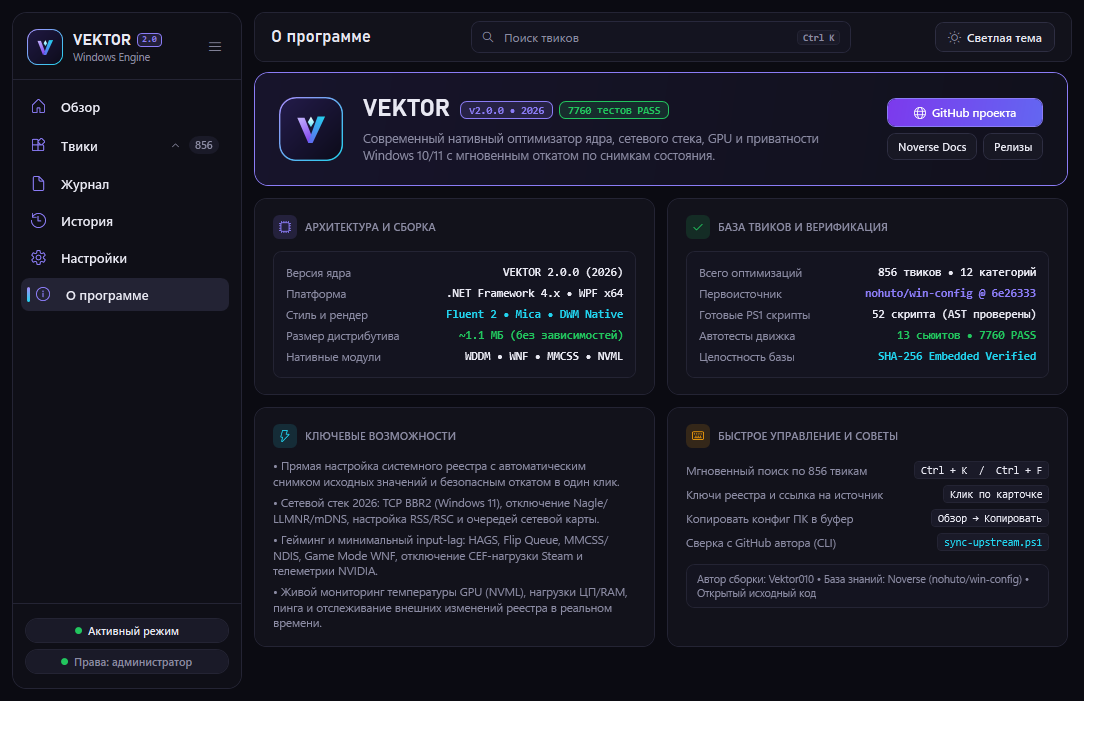
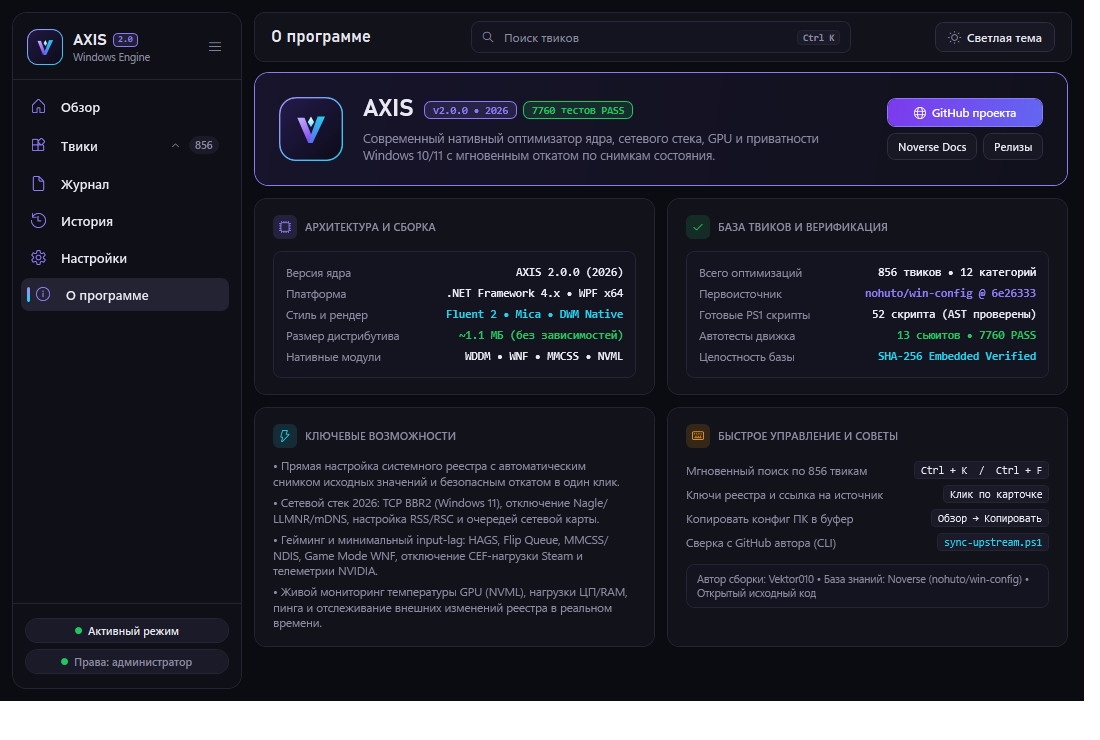
fix(ui): eliminate unnecessary vertical scrollbar via height calibration (800px) and tightened grid spacing for pixel-perfect flush layout

Changed region(s): [[0.3091, 0.1243, 0.6182, 0.1865], [0.4636, 0.3419, 0.5564, 0.373], [0.0618, 0.0311, 0.1545, 0.0622]]

diff --git a/mainwindow.xaml b/mainwindow.xaml
@@ -5,7 +5,7 @@
         xmlns:mc="http://schemas.openxmlformats.org/markup-compatibility/2006"
         mc:Ignorable="d"
         Title="AXIS — Оптимизатор Windows 10/11 (2026)"
-        Height="760"
+        Height="800"
         Width="1180"
         MinWidth="980"
         MinHeight="620"
@@ -570,7 +570,7 @@
                               Visibility="{Binding IsOverviewSelected, Converter={StaticResource BoolToVis}}">
                     <StackPanel Margin="0,0,4,0">
                         <!-- 2.1 Four Bento Metric Cards Row (2026 Typography + Icon Badges) -->
-                        <Grid Margin="0,0,0,12">
+                        <Grid Margin="0,0,0,10">
                             <Grid.ColumnDefinitions>
                                 <ColumnDefinition Width="*" />
                                 <ColumnDefinition Width="*" />
@@ -652,22 +652,22 @@
                         </Grid>
 
                         <!-- 2.2 Two-Column Row: Big 60s Chart (Left) + System Specs (Right) -->
-                        <Grid Margin="0,0,0,12">
+                        <Grid Margin="0,0,0,10">
                             <Grid.ColumnDefinitions>
                                 <ColumnDefinition Width="1.25*" />
                                 <ColumnDefinition Width="*" />
                             </Grid.ColumnDefinitions>
 
                             <!-- Big 60-second Chart -->
-                            <Border Grid.Column="0" Background="{DynamicResource CardBg}" BorderBrush="{DynamicResource CardBorder}" BorderThickness="1" CornerRadius="12" Padding="16,14" Margin="0,0,6,0">
+                            <Border Grid.Column="0" Background="{DynamicResource CardBg}" BorderBrush="{DynamicResource CardBorder}" BorderThickness="1" CornerRadius="12" Padding="16,12" Margin="0,0,6,0">
                                 <StackPanel>
-                                    <Grid Margin="0,0,0,10">
+                                    <Grid Margin="0,0,0,8">
                                         <TextBlock Text="НАГРУЗКА ЗА ПОСЛЕДНИЕ 60 СЕКУНД" FontSize="10.5" FontWeight="SemiBold" Foreground="{DynamicResource TextSecondary}" />
                                         <TextBlock Text="{Binding ChartTitle}" FontSize="11.5" FontWeight="SemiBold" Foreground="{DynamicResource TextPrimary}" HorizontalAlignment="Right" />
                                     </Grid>
 
                                     <!-- Chart Canvas Area -->
-                                    <Border Background="{DynamicResource SearchBg}" BorderBrush="{DynamicResource CardBorder}" BorderThickness="1" CornerRadius="8" Height="140" Padding="6">
+                                    <Border Background="{DynamicResource SearchBg}" BorderBrush="{DynamicResource CardBorder}" BorderThickness="1" CornerRadius="8" Height="130" Padding="6">
                                         <Grid>
                                             <Polyline Points="{Binding CpuChartPoints}" Stroke="{DynamicResource AccentBrush}" StrokeThickness="2.5" />
                                             <Polyline Points="{Binding RamChartPoints}" Stroke="{DynamicResource SuccessBrush}" StrokeThickness="2.5" />
@@ -682,7 +682,7 @@
                                     </Border>
 
                                     <!-- Chart Legend -->
-                                    <StackPanel Orientation="Horizontal" Margin="0,8,0,0">
+                                    <StackPanel Orientation="Horizontal" Margin="0,6,0,0">
                                         <Rectangle Width="10" Height="10" Fill="{DynamicResource AccentBrush}" RadiusX="2" RadiusY="2" VerticalAlignment="Center" Margin="0,0,4,0" />
                                         <TextBlock Text="Загрузка ЦП" FontSize="11" Foreground="{DynamicResource TextSecondary}" Margin="0,0,14,0" />
 
@@ -693,9 +693,9 @@
                             </Border>
 
                             <!-- System Specs Card -->
-                            <Border Grid.Column="1" Background="{DynamicResource CardBg}" BorderBrush="{DynamicResource CardBorder}" BorderThickness="1" CornerRadius="12" Padding="16,14" Margin="6,0,0,0">
+                            <Border Grid.Column="1" Background="{DynamicResource CardBg}" BorderBrush="{DynamicResource CardBorder}" BorderThickness="1" CornerRadius="12" Padding="16,12" Margin="6,0,0,0">
                                 <StackPanel>
-                                    <Grid Margin="0,0,0,10">
+                                    <Grid Margin="0,0,0,8">
                                         <TextBlock Text="СИСТЕМА" FontSize="10.5" FontWeight="SemiBold" Foreground="{DynamicResource TextSecondary}" VerticalAlignment="Center" />
                                         <StackPanel Orientation="Horizontal" HorizontalAlignment="Right" VerticalAlignment="Center">
                                             <TextBlock Text="{Binding CopySpecsFeedback}" FontSize="10.5" Foreground="{DynamicResource SuccessBrush}" VerticalAlignment="Center" Margin="0,0,8,0" />
@@ -713,27 +713,27 @@
                                     </Grid>
 
                                     <StackPanel>
-                                        <Grid Margin="0,3">
+                                        <Grid Margin="0,2">
                                             <TextBlock Text="Процессор" FontSize="11.5" Foreground="{DynamicResource TextSecondary}" VerticalAlignment="Center" />
                                             <TextBlock Text="{Binding CpuSpec}" ToolTip="{Binding CpuSpec}" FontSize="11" FontWeight="Medium" Foreground="{DynamicResource TextPrimary}" HorizontalAlignment="Right" TextTrimming="CharacterEllipsis" MaxWidth="240" />
                                         </Grid>
-                                        <Grid Margin="0,3">
+                                        <Grid Margin="0,2">
                                             <TextBlock Text="Плата" FontSize="11.5" Foreground="{DynamicResource TextSecondary}" VerticalAlignment="Center" />
                                             <TextBlock Text="{Binding MotherboardSpec}" ToolTip="{Binding MotherboardSpec}" FontSize="11" FontWeight="Medium" Foreground="{DynamicResource TextPrimary}" HorizontalAlignment="Right" TextTrimming="CharacterEllipsis" MaxWidth="240" />
                                         </Grid>
-                                        <Grid Margin="0,3">
+                                        <Grid Margin="0,2">
                                             <TextBlock Text="Видеокарта" FontSize="11.5" Foreground="{DynamicResource TextSecondary}" VerticalAlignment="Center" />
                                             <TextBlock Text="{Binding GpuSpec}" ToolTip="{Binding GpuSpec}" FontSize="11" FontWeight="Medium" Foreground="{DynamicResource TextPrimary}" HorizontalAlignment="Right" TextTrimming="CharacterEllipsis" MaxWidth="240" />
                                         </Grid>
-                                        <Grid Margin="0,3">
+                                        <Grid Margin="0,2">
                                             <TextBlock Text="Память" FontSize="11.5" Foreground="{DynamicResource TextSecondary}" VerticalAlignment="Center" />
                                             <TextBlock Text="{Binding RamSpec}" ToolTip="{Binding RamSpec}" FontFamily="{StaticResource FontMono}" FontSize="11" FontWeight="Medium" Foreground="{DynamicResource TextPrimary}" HorizontalAlignment="Right" />
                                         </Grid>
-                                        <Grid Margin="0,3">
+                                        <Grid Margin="0,2">
                                             <TextBlock Text="Диски" FontSize="11.5" Foreground="{DynamicResource TextSecondary}" VerticalAlignment="Center" />
                                             <TextBlock Text="{Binding DisksSpec}" ToolTip="{Binding DisksSpec}" FontSize="10.5" FontWeight="Medium" Foreground="{DynamicResource TextPrimary}" HorizontalAlignment="Right" TextTrimming="CharacterEllipsis" MaxWidth="240" />
                                         </Grid>
-                                        <Grid Margin="0,3">
+                                        <Grid Margin="0,2">
                                             <TextBlock Text="ОС" FontSize="11.5" Foreground="{DynamicResource TextSecondary}" VerticalAlignment="Center" />
                                             <TextBlock Text="{Binding OsSpec}" ToolTip="{Binding OsSpec}" FontSize="11" FontWeight="Medium" Foreground="{DynamicResource TextPrimary}" HorizontalAlignment="Right" TextTrimming="CharacterEllipsis" MaxWidth="240" />
                                         </Grid>
@@ -743,7 +743,7 @@
                         </Grid>
 
                         <!-- 2.25 Native Kernel Subsystems Bento Row (WDDM HAGS / Flip Queue / MMCSS / WNF Game Mode) -->
-                        <Grid Margin="0,0,0,12">
+                        <Grid Margin="0,0,0,10">
                             <Grid.ColumnDefinitions>
                                 <ColumnDefinition Width="*" />
                                 <ColumnDefinition Width="*" />
@@ -751,7 +751,7 @@
                                 <ColumnDefinition Width="*" />
                             </Grid.ColumnDefinitions>
 
-                            <Border Grid.Column="0" Background="{DynamicResource CardBg}" BorderBrush="{DynamicResource CardBorder}" BorderThickness="1" CornerRadius="10" Padding="12,10" Margin="0,0,6,0">
+                            <Border Grid.Column="0" Background="{DynamicResource CardBg}" BorderBrush="{DynamicResource CardBorder}" BorderThickness="1" CornerRadius="10" Padding="12,8" Margin="0,0,6,0">
                                 <StackPanel>
                                     <TextBlock Text="GPU HAGS (WDDM 2.9)" FontSize="9.5" FontWeight="SemiBold" Foreground="{DynamicResource TextSecondary}" />
                                     <TextBlock Text="{Binding HagsStatusText}" FontFamily="{StaticResource FontDisplay}" FontSize="14" FontWeight="SemiBold" Foreground="{DynamicResource CyanAccentBrush}" Margin="0,4,0,1" TextTrimming="CharacterEllipsis" />
@@ -759,7 +759,7 @@
                                 </StackPanel>
                             </Border>
 
-                            <Border Grid.Column="1" Background="{DynamicResource CardBg}" BorderBrush="{DynamicResource CardBorder}" BorderThickness="1" CornerRadius="10" Padding="12,10" Margin="6,0,6,0">
+                            <Border Grid.Column="1" Background="{DynamicResource CardBg}" BorderBrush="{DynamicResource CardBorder}" BorderThickness="1" CornerRadius="10" Padding="12,8" Margin="6,0,6,0">
                                 <StackPanel>
                                     <TextBlock Text="FLIP QUEUE (WDDM 3.0)" FontSize="9.5" FontWeight="SemiBold" Foreground="{DynamicResource TextSecondary}" />
                                     <TextBlock Text="{Binding FlipQueueStatusText}" FontFamily="{StaticResource FontDisplay}" FontSize="14" FontWeight="SemiBold" Foreground="{DynamicResource AccentBrush}" Margin="0,4,0,1" TextTrimming="CharacterEllipsis" />
@@ -767,7 +767,7 @@
                                 </StackPanel>
                             </Border>
 
-                            <Border Grid.Column="2" Background="{DynamicResource CardBg}" BorderBrush="{DynamicResource CardBorder}" BorderThickness="1" CornerRadius="10" Padding="12,10" Margin="6,0,6,0">
+                            <Border Grid.Column="2" Background="{DynamicResource CardBg}" BorderBrush="{DynamicResource CardBorder}" BorderThickness="1" CornerRadius="10" Padding="12,8" Margin="6,0,6,0">
                                 <StackPanel>
                                     <TextBlock Text="MMCSS • ПЛАНИРОВЩИК" FontSize="9.5" FontWeight="SemiBold" Foreground="{DynamicResource TextSecondary}" />
                                     <StackPanel Orientation="Horizontal" Margin="0,4,0,1">
@@ -779,7 +779,7 @@
                                 </StackPanel>
                             </Border>
 
-                            <Border Grid.Column="3" Background="{DynamicResource CardBg}" BorderBrush="{DynamicResource CardBorder}" BorderThickness="1" CornerRadius="10" Padding="12,10" Margin="6,0,0,0">
+                            <Border Grid.Column="3" Background="{DynamicResource CardBg}" BorderBrush="{DynamicResource CardBorder}" BorderThickness="1" CornerRadius="10" Padding="12,8" Margin="6,0,0,0">
                                 <StackPanel>
                                     <TextBlock Text="GAME MODE (WNF)" FontSize="9.5" FontWeight="SemiBold" Foreground="{DynamicResource TextSecondary}" />
                                     <TextBlock Text="{Binding GameModeShortStatus}" ToolTip="{Binding GameModeStatusSummary}" FontFamily="{StaticResource FontDisplay}" FontSize="14" FontWeight="SemiBold" Foreground="{DynamicResource SuccessBrush}" Margin="0,4,0,1" TextTrimming="CharacterEllipsis" />
@@ -789,7 +789,7 @@
                         </Grid>
 
                         <!-- 2.3 Row of Status Pills: СОСТОЯНИЕ -->
-                        <Border Background="{DynamicResource CardBg}" BorderBrush="{DynamicResource CardBorder}" BorderThickness="1" CornerRadius="12" Padding="14,10" Margin="0,0,0,12">
+                        <Border Background="{DynamicResource CardBg}" BorderBrush="{DynamicResource CardBorder}" BorderThickness="1" CornerRadius="12" Padding="14,8" Margin="0,0,0,10">
                             <Grid>
                                 <Grid.ColumnDefinitions>
                                     <ColumnDefinition Width="*" />
@@ -833,14 +833,14 @@
                         </Border>
 
                         <!-- 2.4 Bottom Two Cards: Последние действия & Требуют внимания -->
-                        <Grid Margin="0,0,0,12">
+                        <Grid Margin="0,0,0,4">
                             <Grid.ColumnDefinitions>
                                 <ColumnDefinition Width="1.25*" />
                                 <ColumnDefinition Width="*" />
                             </Grid.ColumnDefinitions>
 
                             <!-- Последние действия -->
-                            <Border Grid.Column="0" Background="{DynamicResource CardBg}" BorderBrush="{DynamicResource CardBorder}" BorderThickness="1" CornerRadius="12" Padding="16,14" Margin="0,0,6,0">
+                            <Border Grid.Column="0" Background="{DynamicResource CardBg}" BorderBrush="{DynamicResource CardBorder}" BorderThickness="1" CornerRadius="12" Padding="16,12" Margin="0,0,6,0">
                                 <StackPanel>
                                     <TextBlock Text="ПОСЛЕДНИЕ ДЕЙСТВИЯ" FontSize="10.5" FontWeight="SemiBold" Foreground="{DynamicResource TextSecondary}" Margin="0,0,0,10" />
                                     <TextBlock Text="Действий пока нет" FontSize="12" Foreground="{DynamicResource TextSecondary}" Margin="0,4" Visibility="{Binding HasRecentJournalActions, Converter={StaticResource InverseBoolToVis}}" />
@@ -866,7 +866,7 @@
                             </Border>
 
                             <!-- Требуют внимания -->
-                            <Border Grid.Column="1" Background="{DynamicResource CardBg}" BorderBrush="{DynamicResource CardBorder}" BorderThickness="1" CornerRadius="12" Padding="16,14" Margin="6,0,0,0">
+                            <Border Grid.Column="1" Background="{DynamicResource CardBg}" BorderBrush="{DynamicResource CardBorder}" BorderThickness="1" CornerRadius="12" Padding="16,12" Margin="6,0,0,0">
                                 <StackPanel>
                                     <TextBlock Text="ТРЕБУЮТ ВНИМАНИЯ" FontSize="10.5" FontWeight="SemiBold" Foreground="{DynamicResource TextSecondary}" Margin="0,0,0,10" />
                                     <TextBlock Text="{Binding AttentionSummary}" FontSize="13" FontWeight="SemiBold" Foreground="{DynamicResource TextPrimary}" Margin="0,4,0,8" />
